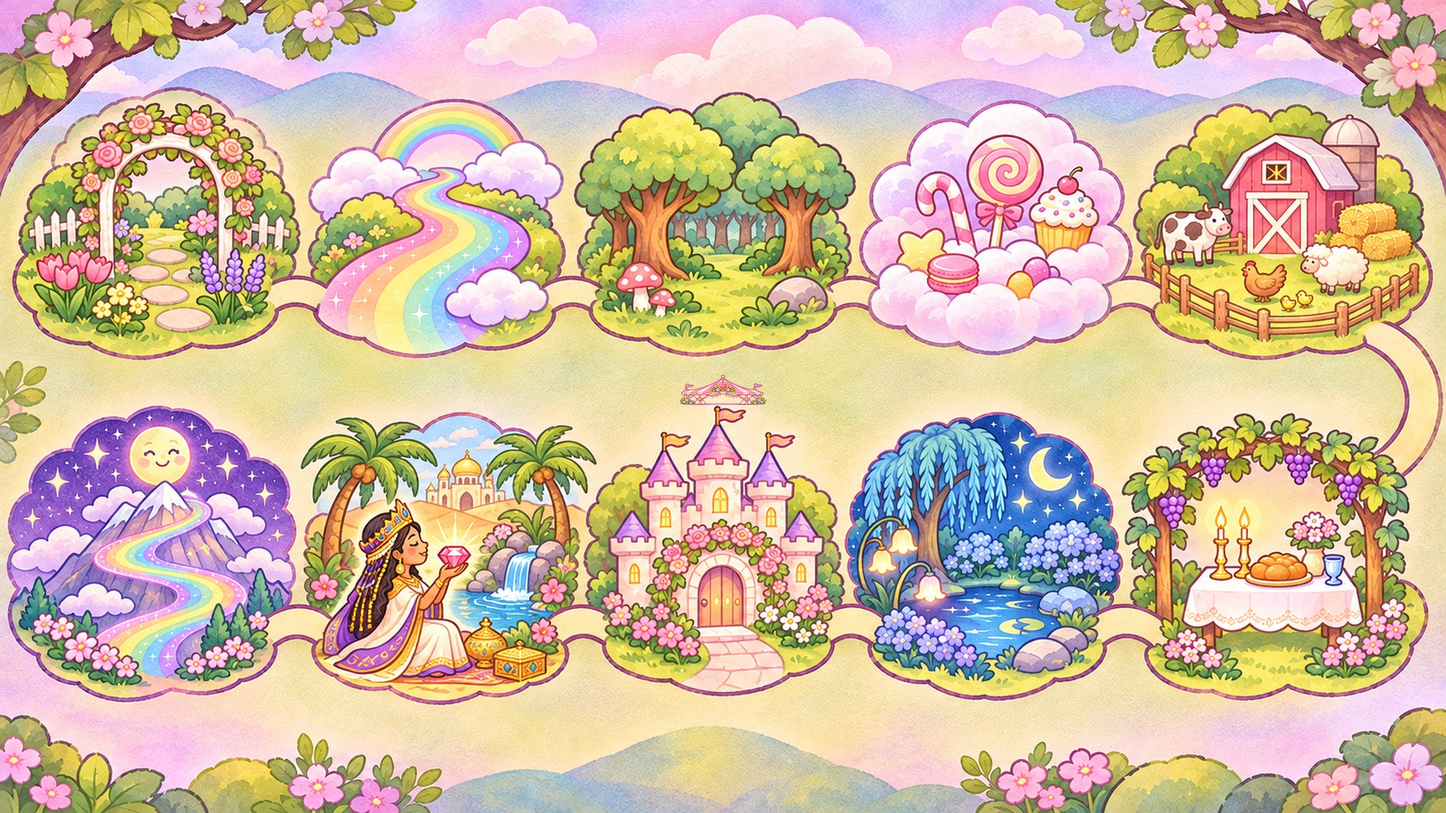
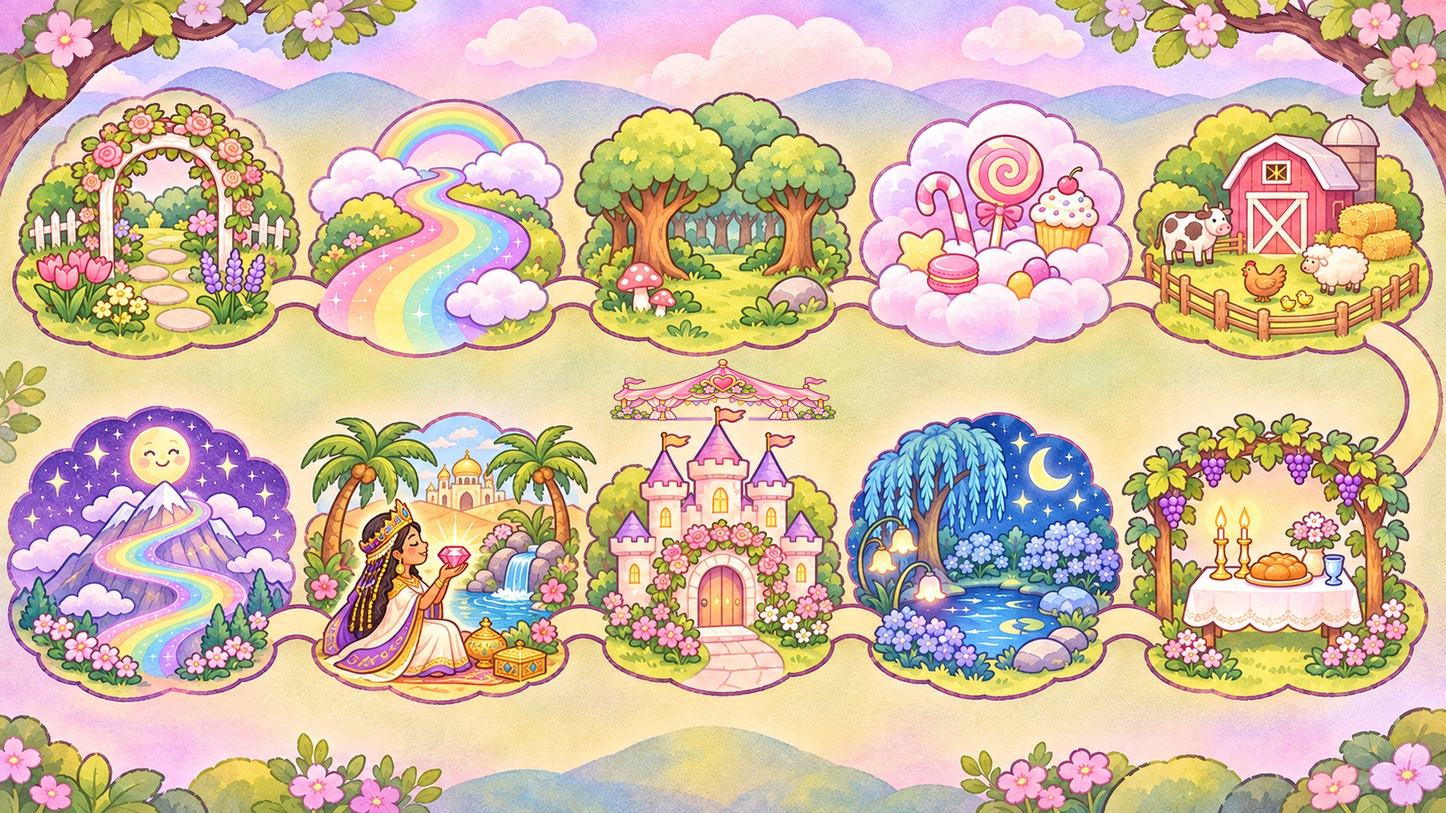
Round 7 art from Ghost (bigger map pavilion, farm bread, slide, bushes, peeking friends, thought bubble); not wired yet

Changed region(s): [[0.4062, 0.4583, 0.5938, 0.5194]]

diff --git a/art/ASSETS-V7-NOTES.md b/art/ASSETS-V7-NOTES.md
@@ -1,0 +1,38 @@
+# Round 7 delivery
+
+## A. Music
+
+Pending. Gemini was inaccessible from the browser control session. The two requested audio files are `music/stage9.mp3` and `music/stage10.mp3`.
+
+- **Sheba’s Oasis:** Create a music track: a warm desert evening, soft hand drum, gentle oud and kanun, and occasional shimmering bells. Calm and curious, with a gentle pulse and space for spoken dialogue. Instrumental children’s game music, no vocals, loopable.
+- **Moon Mountain:** Create a music track: a dreamy night climb with soft celesta, slow harp arpeggios and quiet warm pads. Twinkling, gently magical, and spacious underneath narration. Instrumental children’s game music, no vocals, loopable.
+
+## B. Map
+
+`ui/map11.jpg` is 1920 × 1080. The pavilion is 300 pixels wide and centered at **50% across, 48% down** (960, 518 on the canvas). It was enlarged from the original pavilion sprite and placed over the ten-stop source map. The ten original destinations remain in position. The existing castle flag stays in front where the two illustrations meet.
+
+## C. Farm
+
+| File | Size |
+| --- | --- |
+| `items/item_wheat.png` | 200 × 200 |
+| `props/prop_mill.png` | 300 × 300 |
+| `items/item_milk.png` | 200 × 200 |
+| `items/item_loaf.png` | 200 × 200 |
+| `props/prop_farmtable.png` | 500 × 300 |
+
+## D. Stage activities
+
+| File | Size |
+| --- | --- |
+| `props/prop_slide.png` | 600 × 300 |
+| `props/prop_slide_end.png` | 300 × 200 |
+| `props/prop_bush_a.png` | 300 × 250 |
+| `props/prop_bush_b.png` | 300 × 250 |
+| `props/prop_bush_c.png` | 300 × 250 |
+| `friends/peek_pitzi.png` | 200 × 200 |
+| `friends/peek_shluli.png` | 200 × 200 |
+| `friends/peek_luna.png` | 200 × 200 |
+| `props/prop_thought.png` | 260 × 260 |
+
+All 14 sprites were generated with OpenAI ImageGen and exported with transparent backgrounds. The thought bubble is also transparent inside. The peeking poses used the existing game character sprites as references. Hexweaver owns the game integration and play check.
